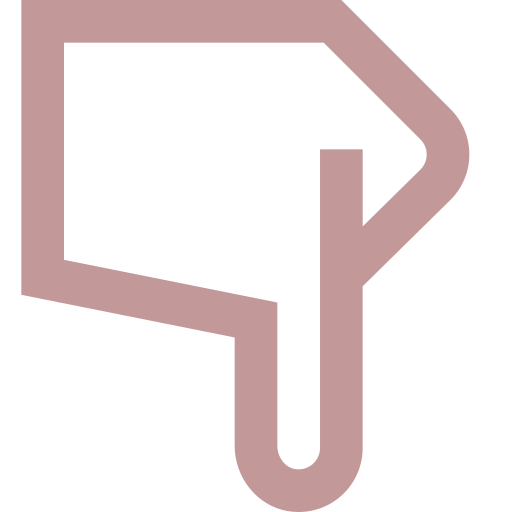
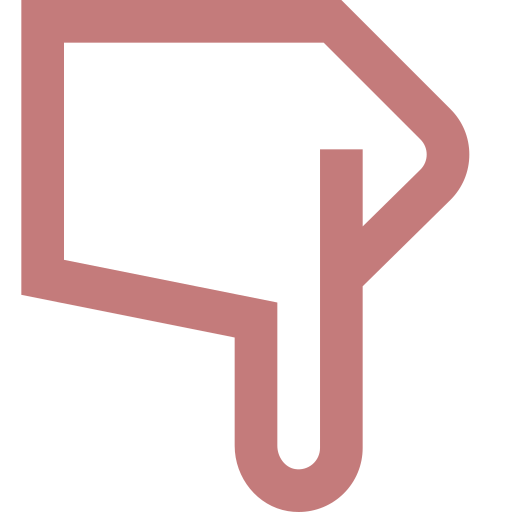
[0604: Styling Changes]

Changed region(s): [[0.0312, 0.0, 0.9375, 1.0]]

diff --git a/FRONT/src/CONSTs/GlobalColorManager.js b/FRONT/src/CONSTs/GlobalColorManager.js
@@ -14,8 +14,8 @@ export const GLOABL_COLOR_MANAGER = () => {
     deep_hidden_forground: "#E1D7C6",
     background: "#E7DFD1",
 
-    player_1_checker: "#6F4E37",
-    player_2_checker: "#C39898",
+    player_1_checker: "#805A97",
+    player_2_checker: "#C47B7B",
   };
 
   return { DARK_THEME: DARK_THEME, LIGHT_THEME: LIGHT_THEME };
